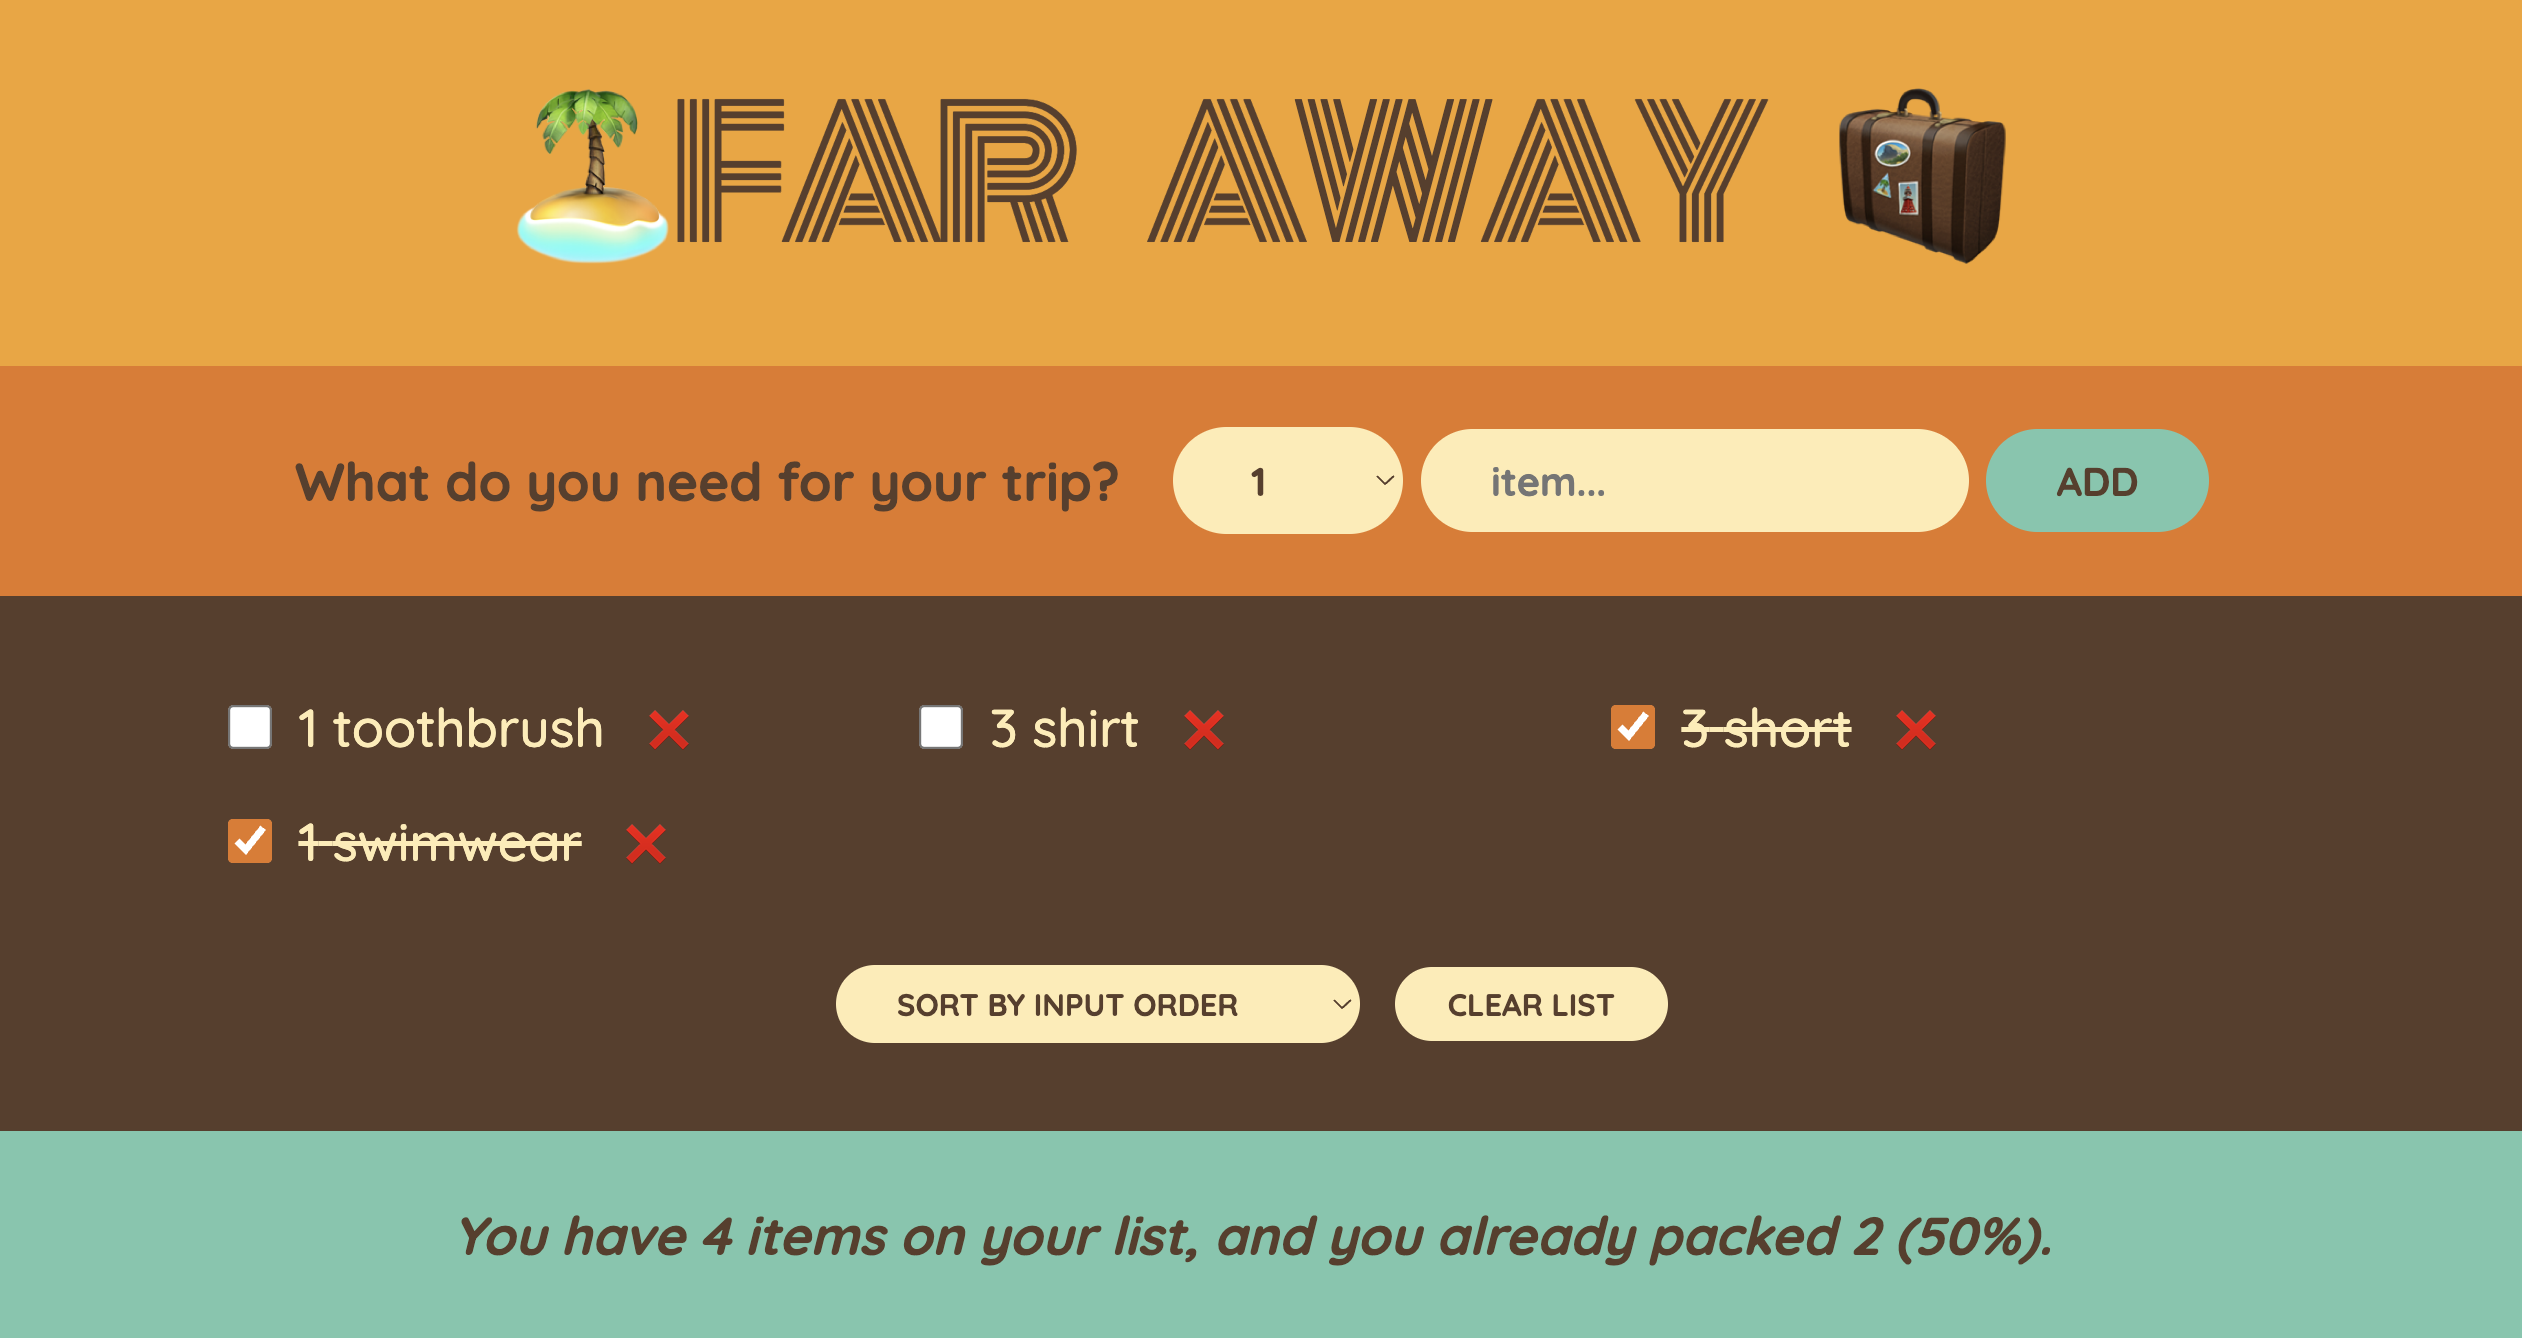
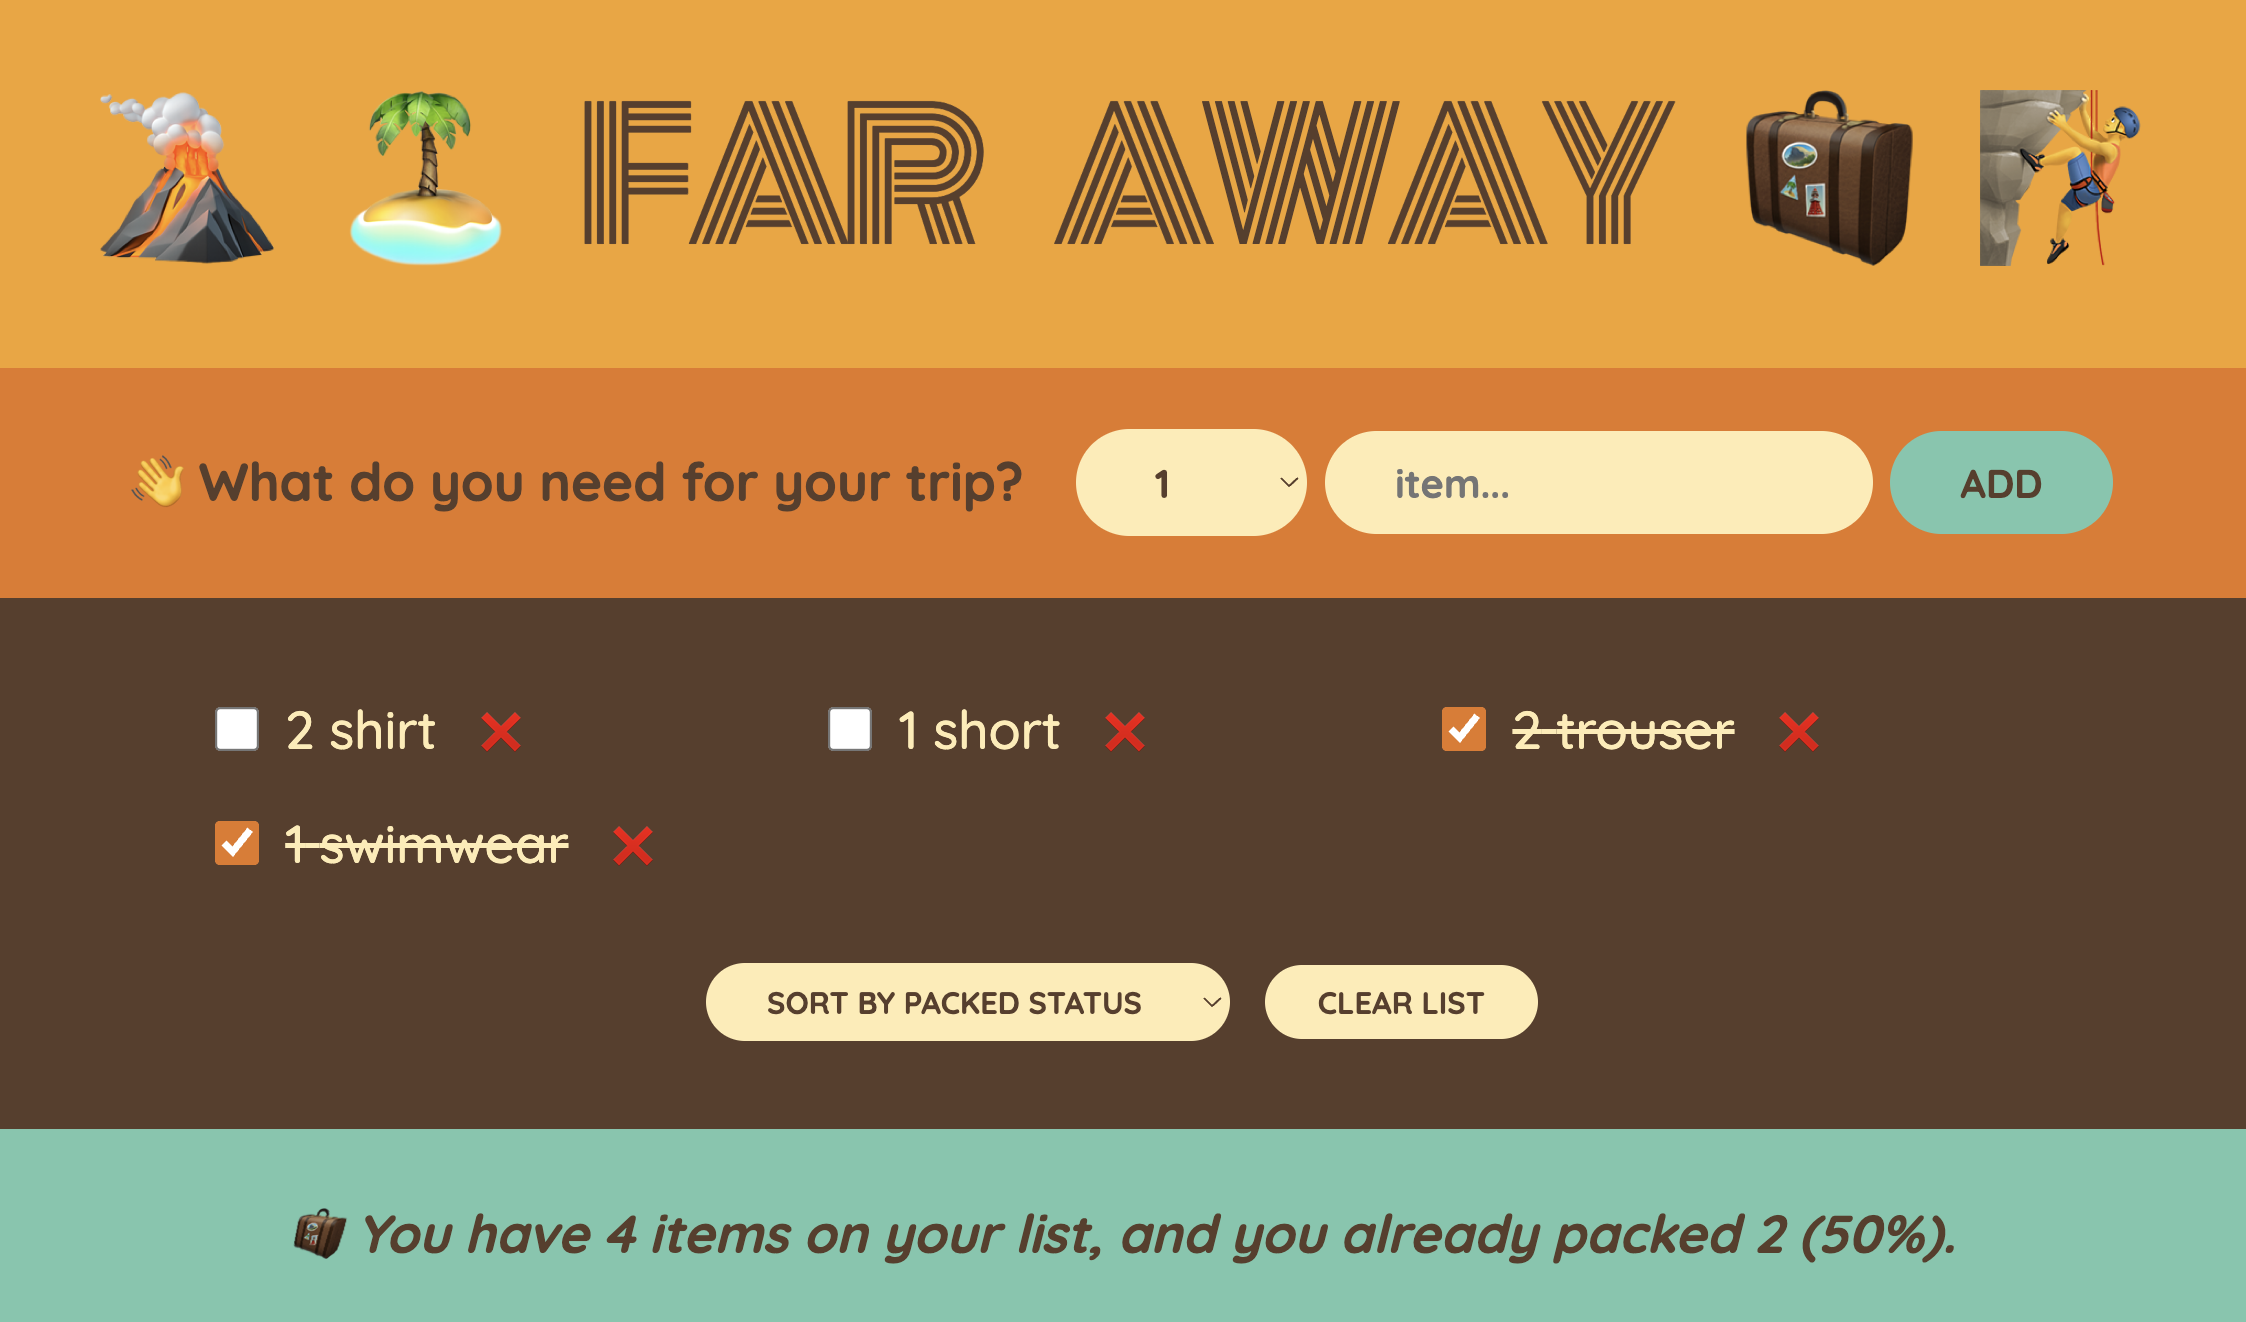
added emojis

diff --git a/src/components/Stats.js b/src/components/Stats.js
@@ -2,7 +2,7 @@ export function Stats({ items }) {
   if (!items.length)
     return (
       <p className="stats">
-        <em>Start adding necessary items to your packing list🚀</em>
+        <em>🤔 Start adding necessary items to your packing list🚀</em>
       </p>
     );
 
@@ -14,8 +14,8 @@ export function Stats({ items }) {
     <footer className="stats">
       <em>
         {percentage === 100
-          ? "You got everything! ready to go 🧳"
-          : `You have ${
+          ? "You got everything! ready to go 👍"
+          : `🧳 You have ${
               numItems === 1 ? "1 item" : `${numItems} items`
             } on your list, and you already packed
         ${packedItems} (${percentage}%)`}

diff --git a/src/components/Form.js b/src/components/Form.js
@@ -20,7 +20,7 @@ export function Form({ onAddItems }) {
 
   return (
     <form className="add-form" onSubmit={handleSubmit}>
-      <h3>What do you need for your trip?</h3>
+      <h3>👋 What do you need for your trip?</h3>
       <select
         value={quantity}
         onChange={(e) => setQuantity(Number(e.target.value))}

diff --git a/src/components/Logo.js b/src/components/Logo.js
@@ -1,3 +1,3 @@
 export function Logo() {
-  return <h1>🏝Far Away 🧳</h1>;
+  return <h1>🌋 🏝 Far Away 🧳 🧗♂</h1>;
 }

diff --git a/src/index.js b/src/index.js
@@ -9,3 +9,4 @@ root.render(
     <App />
   </React.StrictMode>
 );
+
